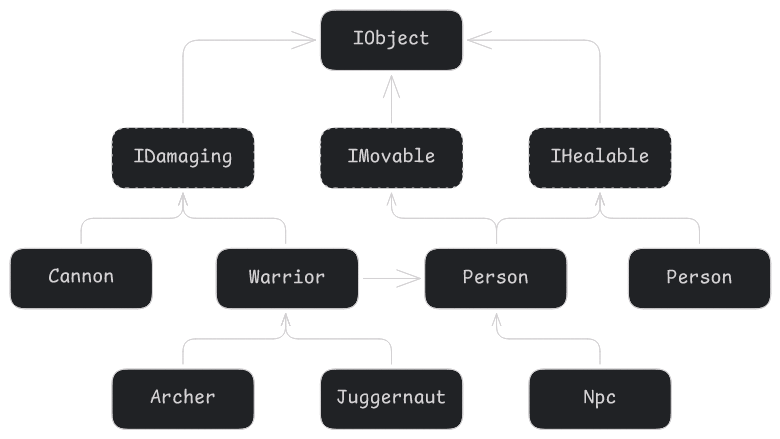
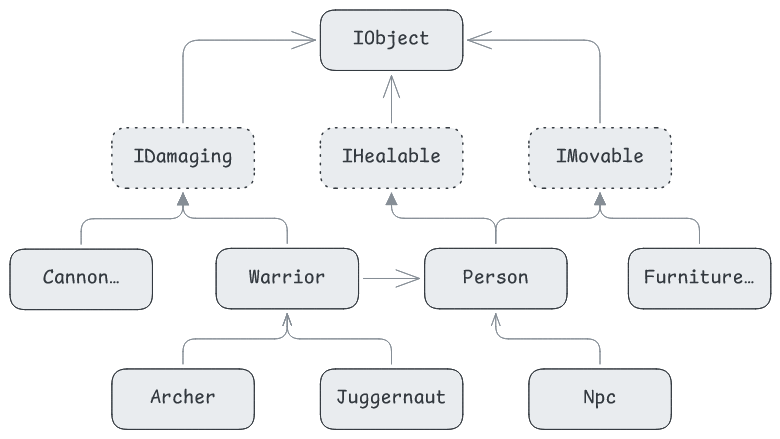
fix 17

diff --git a/home-md/_4.4_multiple.md b/home-md/_4.4_multiple.md
@@ -1,0 +1,77 @@
+::: home-md 
+<!-- .element: hidden="hidden" -->
+
+### ДЗ: Множественное наследование
+
+Изменить структуру наследования классов в соответсвии со следующей диаграммой:
+![диаграмма классов](https://aatutor.github.io/slides_oop_cpp/src/imgs/17/17-mult-diagram.png)
+
+Описать класс для всех объектов, распологаемых в пространстве (имеющих местоположение):
+1. `IObject` с методами:
+	- `GetPosX`
+	- `SetPosX`
+	- `Distance`
+
+Описать следующие абстрактные классы:
+1. `IMovable` с методами:
+	- `Move`
+	- `MoveTo` - возвращает истину, если объект приблизился к цели (расстояние меньше 2)
+2. `IHealable` с методами:
+	- `TakeDamage`
+	- `Heal`
+	- `IsAlive`
+	- `GetHP`
+3. `IDamaging` с методом:
+	- `Attack`
+
+Изменить описание остальных классов в соотвествии с новой структурой наследования.
+
+---
+### Пример использования класса
+``` cpp
+void Fight(Warrior* one, Warrior* two) {
+	while( one->IsAlive() && two->IsAlive() ) {
+		one->Attack(two);
+		two->Attack(one);
+	}
+}
+void DemoTest() {
+	using namespace std;
+	Arsenal* weapon[3] {
+		new Sword(100),
+		new Bow(100, 60),
+		new Magic(100)
+	};
+	Warrior warrior(150, 0, 10, weapon[0]);
+	Juggernaut jugger(150, 0, 10, weapon[0], 100);
+	Archer archer(100, 50, 10, weapon[1], 50);
+	Archer mage(50, 20, 10, weapon[2], 50);
+	for(int i = 0; i < 3; i++) {
+		delete weapon[i];
+	}
+	Fight(&warrior, &archer);
+	cout << "warrior:" << warrior.Info() << endl;
+	cout << "archer:\t" << archer.Info() << endl;
+	Fight(&jugger, &mage);
+	cout << "jugger:\t" << jugger.Info() << endl;
+	cout << "mage:\t" << mage.Info() << endl;
+}
+```
+
+Ожидаемый результат запуска примера:
+``` shell
+warrior:hp(0), pos(30), dmg(100)
+archer: hp(100), pos(50), dmg(100), accuracy(60)
+jugger: hp(0), pos(20), dmg(100)
+mage:   hp(0), pos(20), dmg(100)
+```
+
+
+### [Онлайн проверка](https://coliru.stacked-crooked.com/a/ac6f4446ba3cd1f4)
+[Исходники тестов](https://coliru.stacked-crooked.com/a/04a4e6e6f88d21f8)
+
+---
+[Примеры с презентаций (github)](https://github.com/aatutor/oop_cpp_files)
+
+[Презентации](https://aatutor.github.io/slides_oop_cpp/) | [Архив](https://sourceforge.net/projects/cpp-oop-top-aca/files/Lections/active/)
+:::
